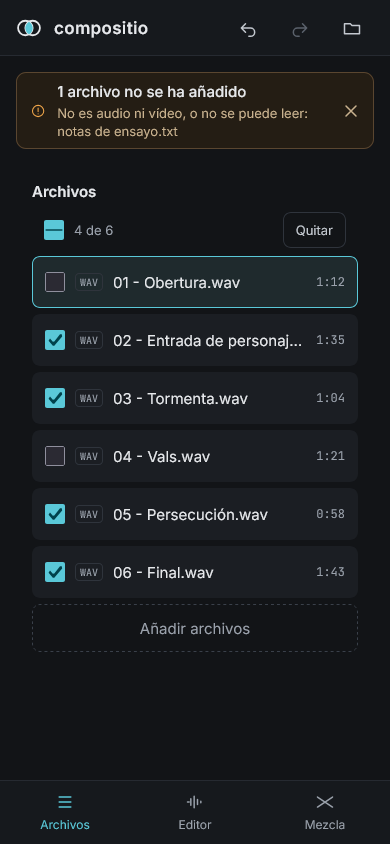
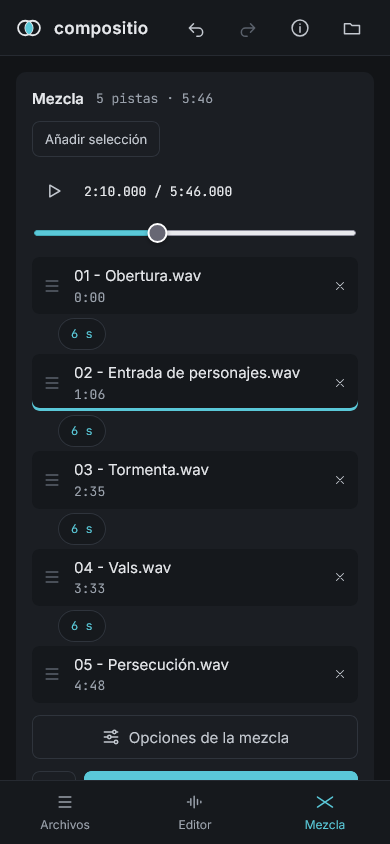
fix: keep the phone tabs at the foot of the screen, and refresh the README screenshots

diff --git a/e2e/mix.spec.ts b/e2e/mix.spec.ts
@@ -236,6 +236,12 @@ test.describe('phone', () => {
     await position.fill('30');
     await expect(mix(page).locator('.mix-transport')).toHaveAttribute('data-time', '30.00');
     await expect(mix(page).locator('.mix-item').nth(2)).toHaveClass(/playing/);
+    // On a short screen the mix scrolls under the tabs, which stay at the foot.
+    await page.setViewportSize({ width: 390, height: 500 });
+    const fit = () => page.evaluate(() => [document.documentElement.scrollHeight, Math.round(document.querySelector('.bottom-nav')!.getBoundingClientRect().bottom), innerHeight]);
+    await expect.poll(fit).toEqual([500, 500, 500]);
+    expect(await page.locator('.center').evaluate((c) => c.scrollHeight > c.clientHeight)).toBe(true);
+    await page.setViewportSize({ width: 390, height: 844 });
     await mix(page).getByRole('button', { name: 'Transición: 6 s' }).first().click();
     await expect(page.getByRole('dialog', { name: 'Transición' })).toBeVisible();
     await page.keyboard.press('Escape');

diff --git a/src/ui/app.css b/src/ui/app.css
@@ -232,6 +232,9 @@ main:focus {
     'center' 1fr
     'nav' auto
     / minmax(0, 1fr);
+  /* The tabs stay at the foot of the screen; the content scrolls above them. */
+  height: 100vh;
+  height: 100dvh;
 }
 
 .files-column {

diff --git a/README.md b/README.md
@@ -11,7 +11,7 @@ Prepare audio and video for live shows in the browser. Everything runs on your d
 
 **Status:** phase 1 complete, first version not released yet. How to use it: [docs/usage.md](docs/usage.md). What each browser can do: [docs/browsers.md](docs/browsers.md).
 
-![compositio on a phone, dark theme: six WAV files with their durations, four of them in the batch, and an alert about a text file that was not added](docs/compositio-demo.png)
+![compositio on a phone, dark theme: the mix tab with five tracks, their start times and crossfades, and the position slider](docs/compositio-demo.png)
 
 ## Files
 
@@ -56,7 +56,7 @@ Prepare audio and video for live shows in the browser. Everything runs on your d
 - «Try an example» with three sample tracks
 - About, with the licences and the code of compositio, ffmpeg.wasm and FFmpeg, and a button that copies the technical details for an issue
 
-![compositio on desktop, light theme: the file list with the active file, its technical line in the editor, and the five output steps](docs/compositio-desktop.png)
+![compositio on desktop, light theme: the file list, the editor with the waveform of the active file, the mix strip with five tracks under its ruler and playhead, and the output steps](docs/compositio-desktop.png)
 
 ## Limits
 

diff --git a/state.md b/state.md
@@ -86,6 +86,7 @@ Web estática en GitHub Pages, en PC y móvil, para preparar audio y vídeo de e
 - [ ] Paso 1 en el Xiaomi (`spikes/` con `?run=all` por `adb reverse tcp:4173`)
 - [ ] Revisión de los pasos 6 a 11 por el usuario
 - [ ] Revisión por el usuario de la escucha y el zoom de la mezcla
+- [ ] Hallazgos del usuario (2026-10-28), diseño propuesto sin aprobar: acciones rápidas fuera de la columna de archivos (escritorio y pestaña Archivos), solo en Inicio; bitrate del origen en la línea técnica del editor (solo formatos con pérdida); fundidos de archivo y de mezcla dibujados en la tira; A/B pasa a «Resultado» / «Original», con Resultado por defecto
 - [ ] Página en blanco en el navegador integrado (Chromium) tras reconstruir con `vite preview` en marcha: el service worker antiguo sirve su `index.html`, `fetch` del JS antiguo da 200 desde su caché, pero importarlo como módulo falla («MIME text/html»). Sin investigar; comprobar si pasa también tras un despliegue en Pages con la app abierta
 - [ ] e2e intermitentes por tiempo en la batería completa (ver Status): repetir cuando vuelva a fallar y medir la carga del motor tras axe
 - [ ] Fase 1 según `docs/plan-2026-10-27.md`; queda del paso 12 fijar la primera versión (0.1.0) tras la revisión del usuario
